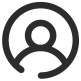
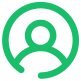
mid 201104

diff --git a/h201104/dist/wx/app.js b/h201104/dist/wx/app.js
@@ -45,7 +45,7 @@ global.webpackJsonpMpvue([1],{
   data: function data() {
     return {
       color: "#707070",
-      selectedColor: "#2c2c2c",
+      selectedColor: "#19be6b",
       list: [{
         pagePath: "/pages/index/main",
         iconPath: "../../static/images/shouye_n.png",

diff --git a/h201104/src/custom-tab-bar/index.vue b/h201104/src/custom-tab-bar/index.vue
@@ -30,7 +30,7 @@
     data() {
       return {
         color: "#707070",
-        selectedColor: "#2c2c2c",
+        selectedColor: "#19be6b",
         list: [{
             pagePath: "/pages/index/main",
             iconPath: "../../static/images/shouye_n.png",
